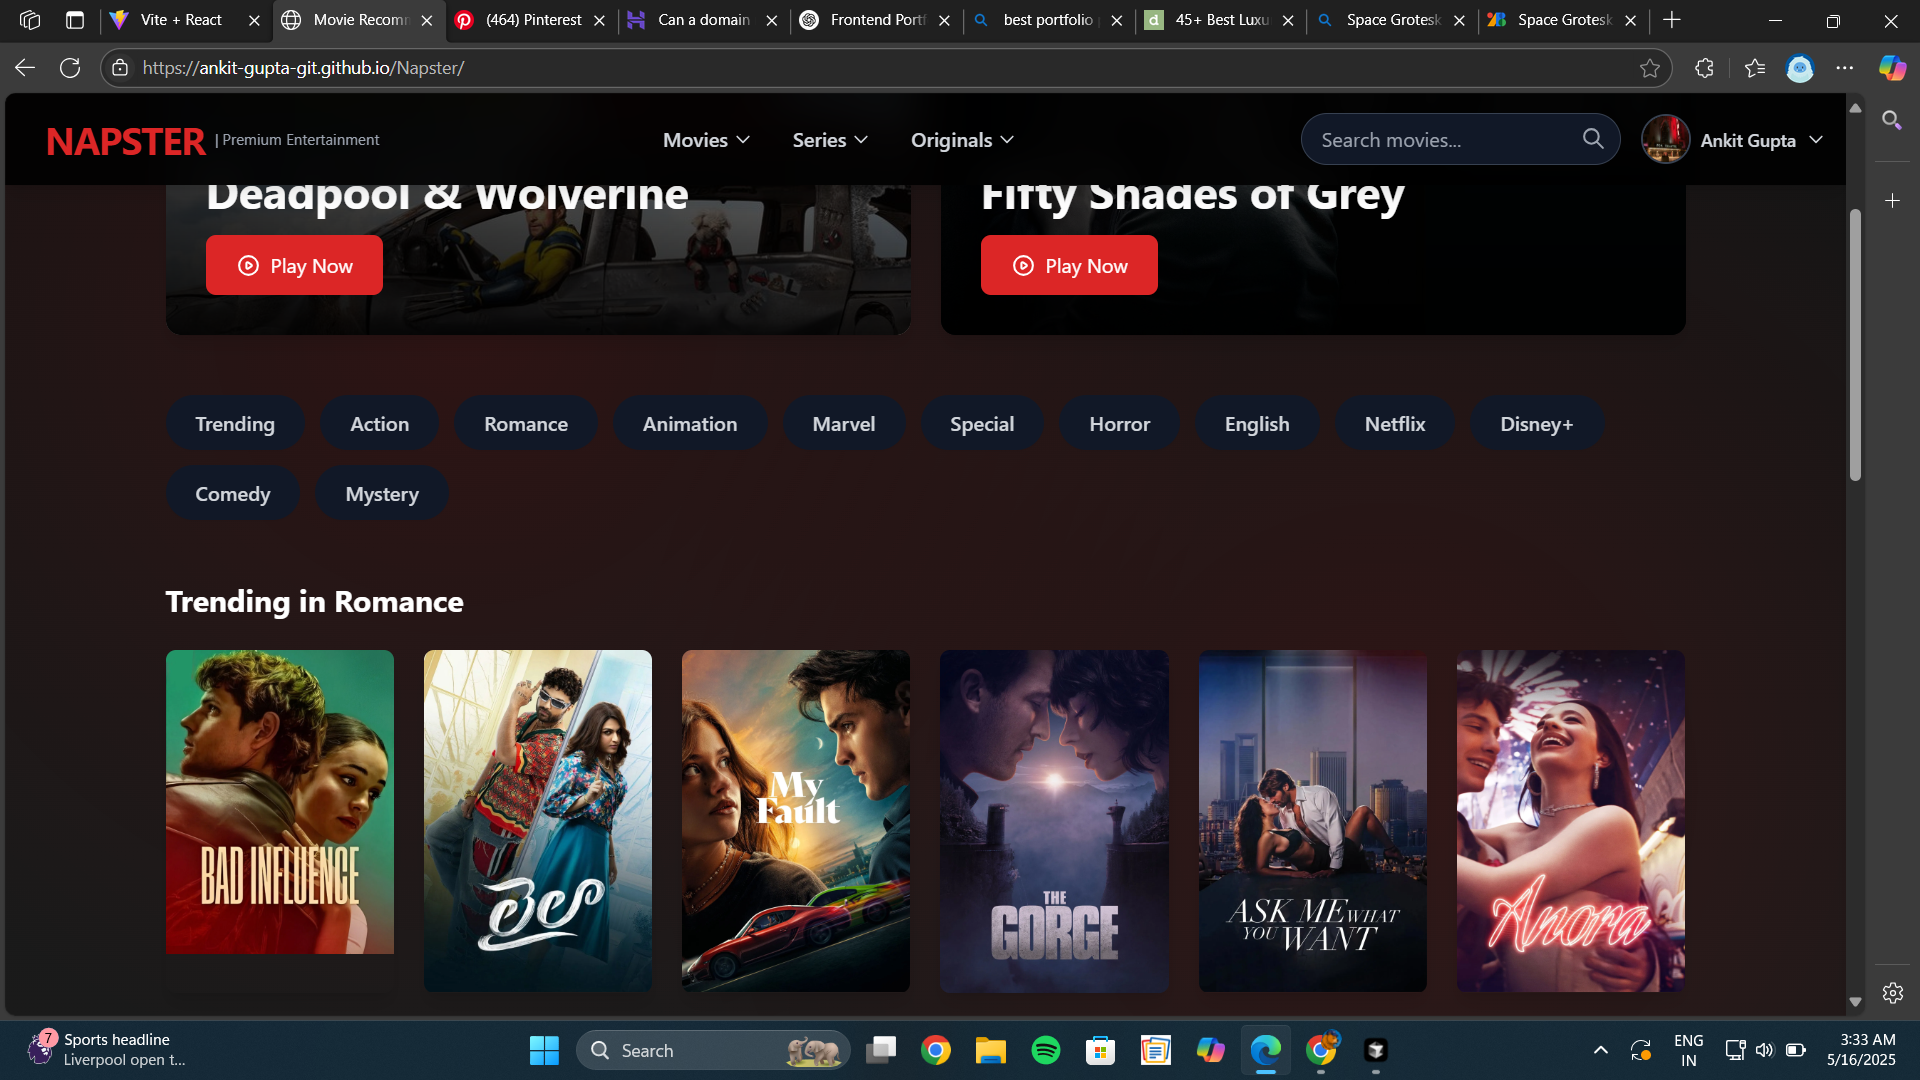
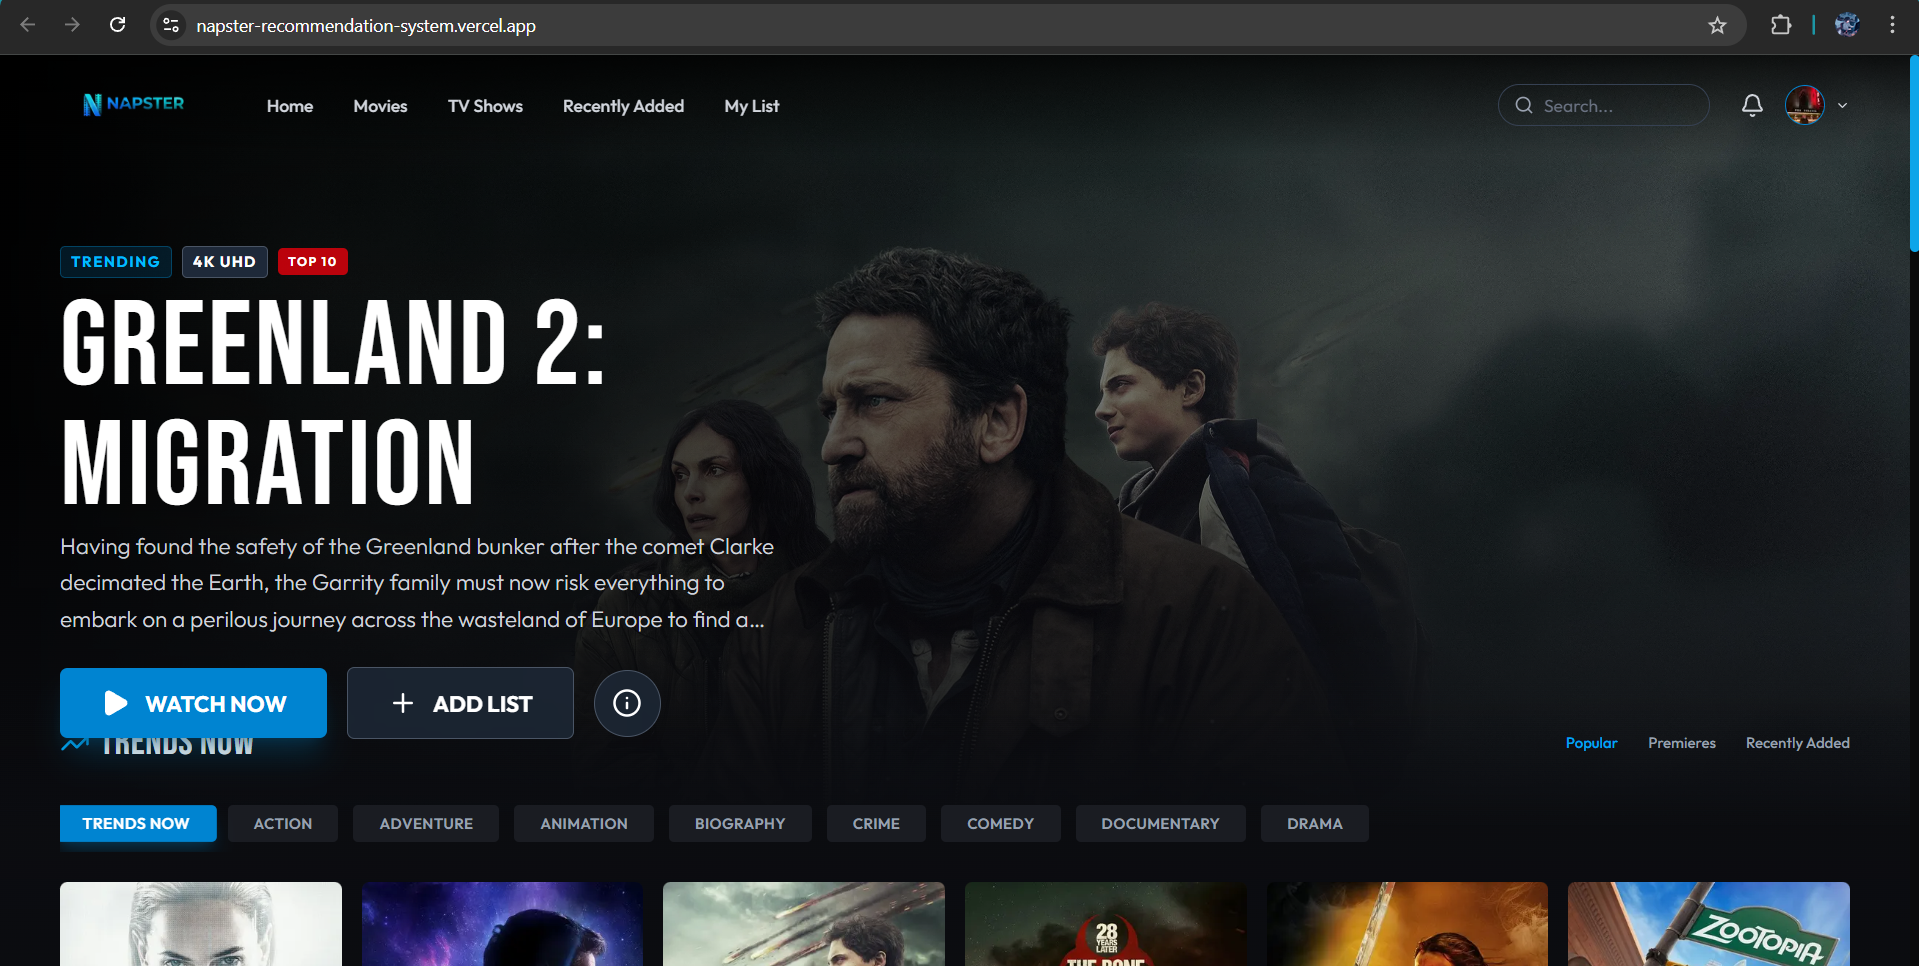
feat: Update Napster project details and add new screenshot

diff --git a/frontend/src/components/Projects.jsx b/frontend/src/components/Projects.jsx
@@ -15,27 +15,27 @@ const projects = [
     status: "Fullstack",
   },
   {
-    title: "NAPSTER - Movie Recommendation",
+    title: "Napster – Movie Recommendation System",
     description:
-      "AI-powered movie recommender based on user preferences and real-time trends.",
-    tech: ["React", "Tailwind", "Node.js", "API"],
-    github: "https://github.com/ankit-gupta-git/Napster",
-    live: "https://napster-ebon.vercel.app/",
+      "LLM-powered movie recommendation platform using agent workflows for personalized suggestions and real-time insights.",
+    tech: [
+      "Next.js",
+      "REST APIs",
+      "LangChain",
+      "YouTube Data API",
+      "LangGraph",
+      "n8n",
+    ],
+    github: "https://github.com/ankit-gupta-git/napster-recommendation-system",
+    live: "https://napster-recommendation-system.vercel.app/",
     image: "/ProjectImg/napster.png",
-    status: "Frontend",
+    status: "Full Stack",
   },
   {
     title: "Roamara - Airbnb Clone",
     description:
       "A full-stack rental platform with booking and listing features.",
-    tech: [
-      "MongoDB",
-      "Express.js",
-      "React.js",
-      "Node.js",
-      "Tailwind",
-      "JWT",
-    ],
+    tech: ["MongoDB", "Express.js", "React.js", "Node.js", "Tailwind", "JWT"],
     github: "https://github.com/ankit-gupta-git/Roamara",
     live: "https://roamara-six.vercel.app/",
     image: "/ProjectImg/Romara.png",
